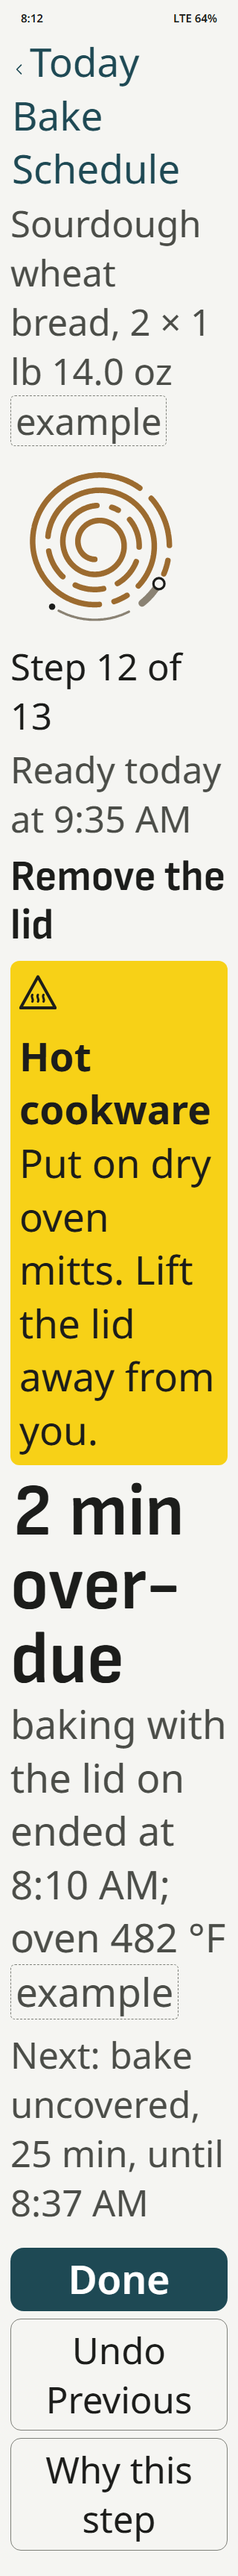
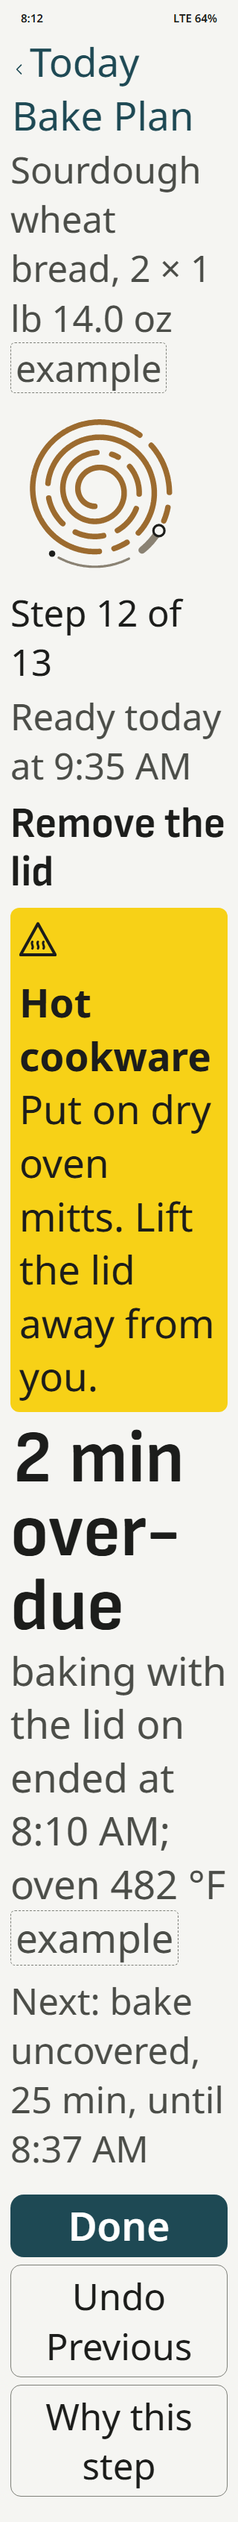
design(teksty): nazwy wedlug slownika - karta "Kalkulator dokarmiania" -> "Ilosci do dokarmienia" / "Feeding Amounts"; jedno wejscie "Importuj z pliku" / "Import from File" w Ustawieniach dla pliku receptury i kopii (bez "Importuj recepture" i drugiego przycisku w karcie kopii), podglad wedlug rodza

diff --git a/docs/design/ekrany/inne.html b/docs/design/ekrany/inne.html
@@ -61,6 +61,39 @@
   </div>
 </main>
 
+<!-- Partia 6 (113, 04-studio-projektowe-028): jedno wejście „Importuj z pliku” w Ustawieniach; po wyborze pliku arkusz podglądu według rodzaju pliku
+     (format „piekarz-backup” = kopia, inaczej receptura). Dane: [PRZYKŁAD]. -->
+<main data-ekran="import-receptura">
+  <div class="status"><span>21:04</span><span>LTE 80%</span></div>
+  <div class="arkusz">
+    <div class="nav"><button class="t-tresc" data-t="im.anuluj">Anuluj</button><button class="t-tresc" style="font-weight:600" data-t="im.dodaj">Dodaj</button></div>
+    <div class="tresc">
+      <h1 class="t-krok" data-t="im.recTyt">Receptura z pliku</h1>
+      <div class="grupa" style="background:var(--tlo)">
+        <div class="kom"><span class="roz t-tresc" data-t="im.nazwa">Nazwa</span><span class="wart t-tresc" data-t="im.nazwaWart">Mój wiejski 75%</span></div>
+        <div class="kom"><span class="roz t-tresc" data-t="im.maki">Mąki</span><span class="wart t-tresc" data-t="im.makiWart">pszenna 80%, żytnia 20%</span></div>
+        <div class="kom"><span class="roz t-tresc" data-t="kl.woda">Woda</span><span class="wart t-tresc">75%</span></div>
+        <div class="kom"><span class="roz t-tresc" data-t="kl.zakwasP">Zakwas</span><span class="wart t-tresc">20%</span></div>
+        <div class="kom"><span class="roz t-tresc" data-t="kl.sol">Sól</span><span class="wart t-tresc">2%</span></div>
+      </div>
+      <div class="info t-obj"><span data-ikona="info"></span><span data-t="im.recOpis">Dodam ją do Moich receptur. Pozostałe dane zostaną bez zmian.</span></div>
+    </div>
+  </div>
+</main>
+
+<main data-ekran="import-kopia">
+  <div class="status"><span>21:05</span><span>LTE 80%</span></div>
+  <div class="arkusz">
+    <div class="nav"><button class="t-tresc" data-t="im.anuluj">Anuluj</button><span></span></div>
+    <div class="tresc">
+      <h1 class="t-krok" data-t="im.kopiaTyt">Kopia zapasowa z pliku</h1>
+      <p class="t-tresc" data-t="im.kopiaZawartosc">Kopia z 18 października 2026: 3 receptury, 1 zakwas, 12 wpisów w Dzienniku.</p>
+      <div class="info t-obj" style="color:var(--tusz)"><span data-ikona="info"></span><span data-t="im.kopiaOpis">Import zastąpi wszystkie dane w aplikacji danymi z kopii. Przed importem zapiszę kopię obecnych danych.</span></div>
+      <button class="drugi t-nagl" style="flex:none;color:var(--blad)" data-t="im.zastap">Zastąp dane</button>
+    </div>
+  </div>
+</main>
+
 <main data-ekran="ocena-slaba">
   <div class="status"><span>10:40</span><span>LTE 60%</span></div>
   <div class="nav"><span></span><button class="t-tresc" style="font-weight:600" data-t="oc.zapisz">Zapisz</button></div>

diff --git a/docs/design/ekrany/teksty.js b/docs/design/ekrany/teksty.js
@@ -43,7 +43,7 @@ window.TEKSTY['en-US'] = {
  "of.cenaNieznana": "price will appear once connected",
  "of.sprobujPonownie": "Try Again",
  "nav.dzis": "Today",
- "pw.plan": "Bake Schedule",
+ "pw.plan": "Bake Plan",
  "pw.receptura": "Sourdough wheat bread, 2 × {g:850} <span class=\"przyklad\">example</span>",
  "pw.krok4": "Step 4 of 13",
  "pw.gotoweJutro": "Ready tomorrow at {h:9:35}",
@@ -239,5 +239,17 @@ window.TEKSTY['en-US'] = {
  "kl.zaczyn": "Preferment",
  "kl.zaczynRodzaj": "Type",
  "kl.bezZaczynu": "none",
- "kl.zaczynOpis": "With a preferment (poolish, biga, old dough, levain), you choose how much flour goes into it; “Into the bowl” shows the preferment and the dough separately."
+ "kl.zaczynOpis": "With a preferment (poolish, biga, old dough, levain), you choose how much flour goes into it; “Into the bowl” shows the preferment and the dough separately.",
+ "im.anuluj": "Cancel",
+ "im.dodaj": "Add",
+ "im.recTyt": "Recipe from File",
+ "im.nazwa": "Name",
+ "im.nazwaWart": "My country loaf 75%",
+ "im.maki": "Flours",
+ "im.makiWart": "wheat 80%, rye 20%",
+ "im.recOpis": "I'll add it to My Recipes. Your other data stays as it is.",
+ "im.kopiaTyt": "Backup from File",
+ "im.kopiaZawartosc": "Backup from October 18, 2026: 3 recipes, 1 starter, 12 journal entries.",
+ "im.kopiaOpis": "Importing replaces all data in the app with the data from the backup. Before importing, I'll save a copy of your current data.",
+ "im.zastap": "Replace Data"
 };

diff --git a/docs/design/ekrany/teksty-najdluzszy.js b/docs/design/ekrany/teksty-najdluzszy.js
@@ -237,5 +237,17 @@ window.TEKSTY['fr'] = {
  "kl.zaczyn": "Préferment",
  "kl.zaczynRodzaj": "Type",
  "kl.bezZaczynu": "aucun",
- "kl.zaczynOpis": "Avec un préferment (poolish, biga, pâte fermentée, levain), vous choisissez la part de farine qui y va ; « Dans le bol » montre le préferment et la pâte séparément."
+ "kl.zaczynOpis": "Avec un préferment (poolish, biga, pâte fermentée, levain), vous choisissez la part de farine qui y va ; « Dans le bol » montre le préferment et la pâte séparément.",
+ "im.anuluj": "Annuler",
+ "im.dodaj": "Ajouter",
+ "im.recTyt": "Recette depuis un fichier",
+ "im.nazwa": "Nom",
+ "im.nazwaWart": "Mon pain de campagne 75 %",
+ "im.maki": "Farines",
+ "im.makiWart": "blé 80 %, seigle 20 %",
+ "im.recOpis": "Je l'ajoute à Mes recettes. Vos autres données restent inchangées.",
+ "im.kopiaTyt": "Sauvegarde depuis un fichier",
+ "im.kopiaZawartosc": "Sauvegarde du 18 octobre 2026 : 3 recettes, 1 levain, 12 entrées du journal.",
+ "im.kopiaOpis": "L'import remplace toutes les données de l'application par celles de la sauvegarde. Avant l'import, j'enregistre une copie de vos données actuelles.",
+ "im.zastap": "Remplacer les données"
 };

diff --git a/docs/design/design-spec.md b/docs/design/design-spec.md
@@ -55,7 +55,7 @@ Emoji nie są ikonami (088); ikony to symbole SF na iOS (w makiecie rysowane zas
 | Zrobione na ostatnim kroku | pasek kciuka | arkusz oceny: gwiazdki 1–5, [Zapisz] / Save; przy ≤ 2★ „Otwórz Doktora Chleba” / Open Bread Doctor i „Nie teraz” / Not Now (F-43); przy ≥ 4★ tylko prośba systemowa (D-042) |
 | Piecz ponownie / Bake Again | wpis w Dzienniku | receptura z wpisu z ilościami z tamtego wypieku (F-28) |
 | Usuń wpis / Delete Entry, Usuń recepturę / Delete Recipe | wpis Dziennika, wpis zakwasu, receptura własna (gest przesunięcia + ta sama akcja w menu wiersza) | bez pytania, pasek „Usunięto {obiekt}” z „Przywróć” / Restore (D-051 1a) |
-| Eksportuj do pliku / Export to File, Importuj z pliku / Import from File, Kopie zapasowe / Backups | Ustawienia (z „Dziś”) | eksport: arkusz udostępniania z jednym plikiem; import: podgląd, kopia przed importem, potem dane w aplikacji (F-33); kopie: lista 10 ostatnich (F-32) |
+| Eksportuj do pliku / Export to File, Importuj z pliku / Import from File, Kopie zapasowe / Backups | Ustawienia (z „Dziś”) | eksport: arkusz udostępniania z jednym plikiem; import: jedno wejście dla receptury i kopii, podgląd według rodzaju pliku (`import-receptura`: „Dodaj”; `import-kopia`: „Zastąp dane”), kopia przed importem, potem dane w aplikacji (F-33, §11c 113); kopie: lista 10 ostatnich (F-32) |
 | Dodaj mąkę / Add Flour, Gotowe / Done | arkusz „Składniki” | nowy wiersz mąki; zamknięcie arkusza z zapisem (F-11) |
 | Wstaw gotową mieszankę / Use a Flour Blend | arkusz „Składniki”, menu systemowe | mąki i procenty z wybranej mieszanki zastępują listę mąk (§11c 106) |
 | Pokaż wszystkie / Show All | lista receptur z pustym filtrem | filtr „Wszystkie” |
@@ -72,7 +72,7 @@ Etykiety VoiceOver: „akcja + obiekt” (np. „Mniej bochenków”, „Zrobion
 | Receptura (F-09, F-10, F-11, F-26, F-27, F-55, F-56) | `lista-receptur` (ekran główny zakładki, filtr rodzaju, moje i bazowe; §11c 106), `receptura-zaczyn` („Do miski” w dwóch grupach), `skladniki-pelne` (tryb, mąki, proporcje, zaczyn), `receptura` (≤ 4 akcje), `receptura-wiecej` (menu „Więcej”, 057), `mieszanka-i-sol` (wariant żytni, informacja o soli bez blokady), `temperatura-wody` |
 | Zakwas (F-22…F-25, F-60, F-62, F-64) | `karta` (cykl, „Podwoił objętość”), `zakladanie-dzien-3` (dzień N, 7–10 dni), `plesn` (RD-21, polecenie zamiast listy) |
 | Oferta i zakup (F-35, F-37, F-67) | `oferta-proba` (3 opcje, ujawnienia U1–U8), `zakup-bez-proby`, `uprzedzenie-3-dni`, `bez-sieci` |
-| Inne | `plan-sen` (zakres 20–26 °C / 68–79 °F, kolizja ze snem i propozycja), `plan-za-pozno` (start planu przed „teraz”: zdanie z godzinami, „Ustaw tę godzinę”, „Zacznij wypiek” nieaktywny z powodem; §11c 107), `ocena-slaba` (Doktor ≤ 2★; przy ≥ 4★ tylko prośba systemowa, bez własnego okna), `ustawienia` (jednostki, dane, Pro, kontakt, polityka) |
+| Inne | `plan-sen` (zakres 20–26 °C / 68–79 °F, kolizja ze snem i propozycja), `plan-za-pozno` (start planu przed „teraz”: zdanie z godzinami, „Ustaw tę godzinę”, „Zacznij wypiek” nieaktywny z powodem; §11c 107), `ocena-slaba` (Doktor ≤ 2★; przy ≥ 4★ tylko prośba systemowa, bez własnego okna), `ustawienia` (jednostki, dane, Pro, kontakt, polityka), `import-receptura` i `import-kopia` (podgląd po „Importuj z pliku”, §11c 113) |
 Ładowanie: brak (wszystko lokalne; szkielet tylko przy imporcie pliku > 1 s). Brak wyników: lista receptur z filtrem rodzaju — „Brak receptur tego rodzaju. Pokaż wszystkie.” Offline: tylko zakup i przywrócenie (bez sieci).
 
 ## 7. Miary USA (096, D-044)
@@ -257,6 +257,23 @@ Kolejność sekcji ekranu receptury (od góry): pasek nawigacji (wstecz „Recep
 Teksty nowe (PL / EN): „Receptury bazowe” / “Base Recipes” (zastępuje „Receptury mistrzowskie”); „Moje receptury” / “My Recipes” (zastępuje „Moje przepisy”); „{rodzaj}, poziom {trudność}” / “{type}, {level}” (np. „Na zakwasie, poziom łatwy” / “Sourdough, easy”); „Ilości liczę od” / “Calculate amounts from”, „bochenków” / “loaves”, „masy mąki” / “flour weight”; „Wstaw gotową mieszankę” / “Use a Flour Blend”; „Proporcje (procent mąki)” / “Proportions (% of flour)”; „Hydratacja zakwasu” / “Starter hydration”; „Zaczyn” / “Preferment”, „Rodzaj” / “Type”, „bez zaczynu” / “none”, „Zaczyn: {rodzaj}” / “Preferment: {type}”, „{rodzaj} (cały)” / “{type} (all of it)”; „Mąka w zaczynie” / “Flour in preferment”; „Razem {masa}” / “Total {weight}”; „O recepturze” / “About This Recipe”; „Brak receptur tego rodzaju.” / “No recipes of this type.” + „Pokaż wszystkie” / “Show All”.
 
 Test akceptacyjny 106: (1) render zakładki Receptury: ekran główny ma `testID="recipe-list"` z grupą receptur bazowych (`recipe-row-{id}`, jeden na recepturę z `filterMasterRecipes`), filtr `category-filter-*` jak dziś i bez `start-bake-btn`; (2) dotknięcie `recipe-row-{id}` otwiera ekran receptury z tytułem = nazwa receptury; (3) na ekranie receptury `start-bake-btn` nie jest potomkiem `ScrollView` (strefa akcji przyklejona) przy tekście domyślnym, a Maestro e2e przy 390 × 844 pt: `assertVisible: "Ułóż plan"` bez `scroll` (krok roli 07); (4) na ekranie receptury brak `artisan-accordion-pro`, `CalculatorSacredCard`, `master-recipe-info-card` w pierwszym widoku i przełącznika trybu; „Do miski” to lista z `scale-item-*`; (5) arkusz `edit-ingredients-btn` zawiera w tej kolejności: wybór trybu (`calc-mode-loaves`, `calc-mode-flour`), mąki z `add-flour-btn` i `flour-blend-menu-btn`, pola `water-pct-input`, `starter-pct-input`, `starter-hydration-input` (tylko gdy zakwas > 0), `salt-pct-input`, `yeast-pct-input`, wiersz `preferment-type-btn`; (6) wybór zaczynu „poolish” zmienia „Do miski” na dwie grupy (`do-miski-zaczyn`, `do-miski-ciasto`); (7) arkusz temperatury wody nie ma steppera hydratacji; (8) wzorce `wzorce-zrzuty/kalkulator-lista-receptur-*`, `kalkulator-receptura-zaczyn-*`, `kalkulator-skladniki-pelne-*` oraz istniejące `kalkulator-receptura-*`.
+
+### 113 · Nazwy według słownika: karta dokarmienia i jedno wejście importu (028, reszta)
+**(a) Karta „Kalkulator dokarmiania”** (`src/components/zakwas/StarterFeedingCard.tsx`, tytuł karty): „Kalkulator” to nazwa miejsca, którego po D-051 (2a) nie ma. Nowy tytuł: **„Ilości do dokarmienia”** / **“Feeding Amounts”**; nazwa mówi, co karta daje (masy mąki, wody i zakwasu do dokarmienia), w słowach słownika („dokarmienie”, §5). Etykieta VoiceOver nagłówka = tytuł.
+
+**(b) Import: jedno wejście.** Potwierdzam: w Ustawieniach (grupa „Twoje dane”, stan `ustawienia`) jest **jeden** wiersz „Importuj z pliku” / “Import from File” (`import-file-btn`) dla pliku receptury i pliku kopii zapasowej; znikają osobne wejścia „Importuj z pliku” w karcie kopii (`import-backup-btn`) i „Importuj recepturę” (`import-recipe-json-btn`, `ImportRecepturySection`). Przebieg: wiersz → systemowy wybór pliku (`.json`) → aplikacja rozpoznaje rodzaj po zawartości (`format: "piekarz-backup"` = kopia; poprawna receptura = receptura; inaczej błąd) → arkusz podglądu dla tego rodzaju (stany `import-receptura`, `import-kopia` w `ekrany/inne.html`). *Dlaczego jedno:* użytkownik ma plik, nie wie i nie musi wiedzieć, który z dwóch przycisków go przyjmie; jedna nazwa na akcję (089).
+
+| Rodzaj pliku | Arkusz podglądu PL / EN | Przycisk | Wynik |
+|---|---|---|---|
+| receptura | tytuł „Receptura z pliku” / “Recipe from File”; wiersze: „Nazwa”, „Mąki” („pszenna 80%, żytnia 20%”), „Woda”, „Zakwas”, „Sól” (procenty); zdanie „Dodam ją do Moich receptur. Pozostałe dane zostaną bez zmian.” / “I'll add it to My Recipes. Your other data stays as it is.” | „Anuluj” (lewy górny) / „Dodaj” / “Add” (prawy górny) | receptura na liście „Moje receptury”; komunikat „Receptura „{nazwa}” jest w Moich recepturach.” / ““{name}” is now in My Recipes.” (zastępuje „Przepis „{name}” został pomyślnie dodany do Twojej bazy.”) |
+| kopia zapasowa | tytuł „Kopia zapasowa z pliku” / “Backup from File”; zdanie „Kopia z {data}: {receptury}, {zakwasy}, {wpisy}.” / “Backup from {date}: {recipes}, {starters}, {entries}.”; informacja „Import zastąpi wszystkie dane w aplikacji danymi z kopii. Przed importem zapiszę kopię obecnych danych.” / “Importing replaces all data in the app with the data from the backup. Before importing, I'll save a copy of your current data.” | „Anuluj” / przycisk drugi „Zastąp dane” / “Replace Data” (tekst `blad`) | kopia przed importem (pula `piekarz-przed-importem-*`), dane z kopii; komunikat według §11c 116 |
+| inny plik | „Tego pliku nie rozpoznaję. Piekarz importuje plik receptury i plik kopii zapasowej z Piekarza.” / “I don't recognize this file. Piekarz imports recipe files and backup files made in Piekarz.” | „Zamknij” / “Close” | bez zmian w danych |
+
+Formy liczby w podglądzie kopii: PL `{n}` receptura (1), receptury (2–4, 22–24 …), receptur (0, 5–21, 25 …); zakwas / zakwasy / zakwasów; wpis / wpisy / wpisów w Dzienniku (reguła CLDR „one / few / many”); EN recipe / recipes, starter / starters, journal entry / journal entries (one / other). `{data}` w formacie regionu („18 października 2026” / “October 18, 2026”). Liczba i rzeczownik połączone spacją niełamiącą.
+
+Wybór pliku wymaga systemowego okna plików; w `package.json` nie ma dziś `expo-document-picker` (jest `expo-file-system`, `expo-clipboard`). Zależność do zgody roli 05 i właściciela [DO USTALENIA]; do tego czasu ten sam arkusz importu przyjmuje treść pliku ze schowka (dzisiejsze zachowanie, „Wklej ze schowka”), a nazwa wiersza zostaje „Importuj z pliku”.
+
+Test akceptacyjny 113: (1) w drzewie Ustawień dokładnie jeden element z tekstem „Importuj z pliku” i brak `import-backup-btn`, `import-recipe-json-btn` oraz tekstu „Importuj recepturę”; (2) treść z `format: "piekarz-backup"` otwiera podgląd kopii z liczbami z pliku i przyciskiem „Zastąp dane”; poprawna receptura — podgląd receptury z „Dodaj”; inna treść — komunikat „Tego pliku nie rozpoznaję…”; (3) test form liczby: 1 receptura, 3 receptury, 5 receptur, 22 receptury; 1 recipe, 3 recipes; (4) tytuł karty dokarmienia „Ilości do dokarmienia” / “Feeding Amounts”, w tekstach t() brak „Kalkulator dokarmiania”; (5) wzorce `wzorce-zrzuty/inne-import-receptura-*`, `inne-import-kopia-*`. W makietach EN nazwa ekranu planu to “Bake Plan” (było “Bake Schedule”), zgodnie z etykietą Spirali i 089; zrzuty `prowadzenie-*-en-US-imp-*` wygenerowane ponownie.
 
 ## 12. Wybory z kalibracji i domyślne (090) — każdy z decyzją
 | Wybór | Decyzja |
